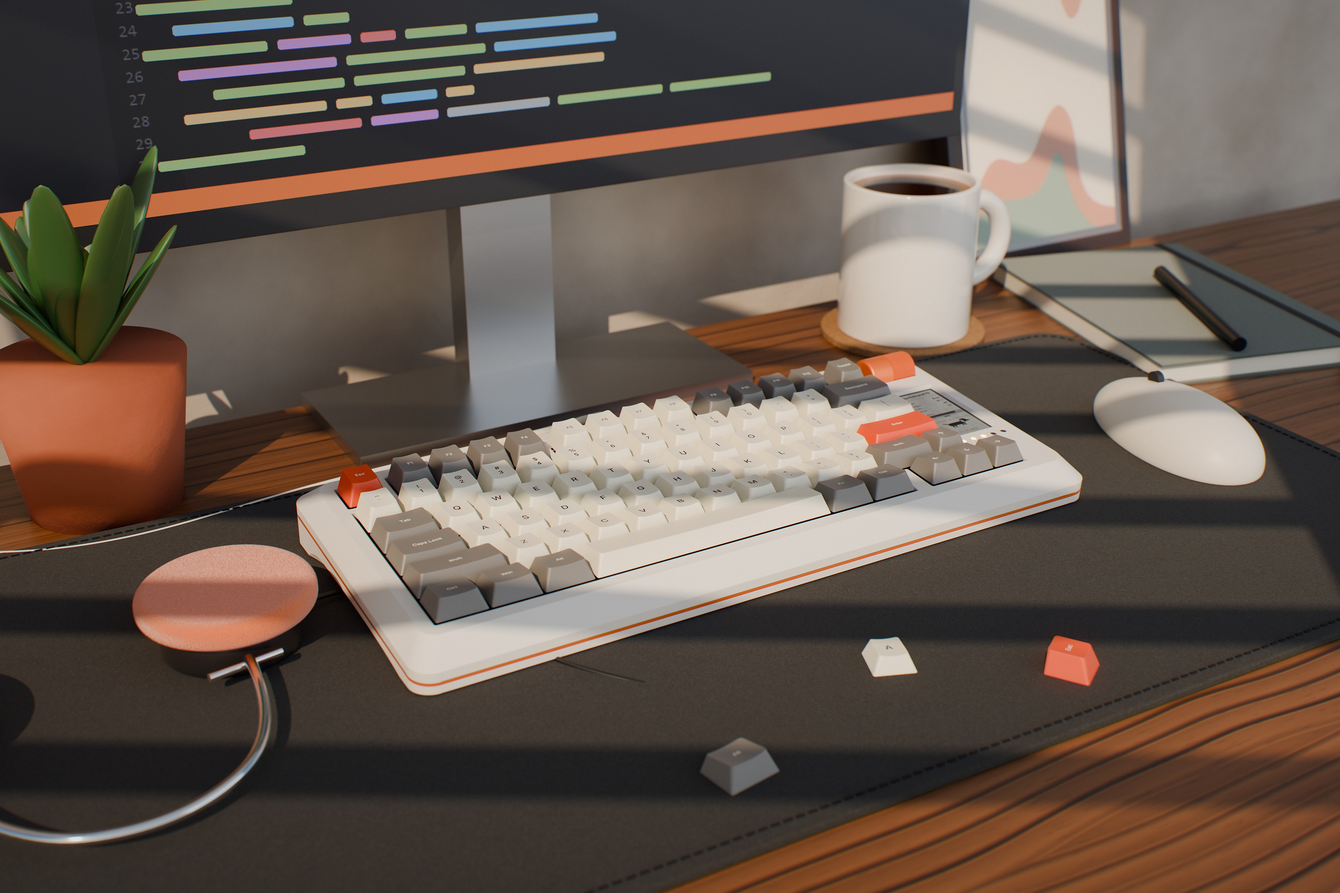
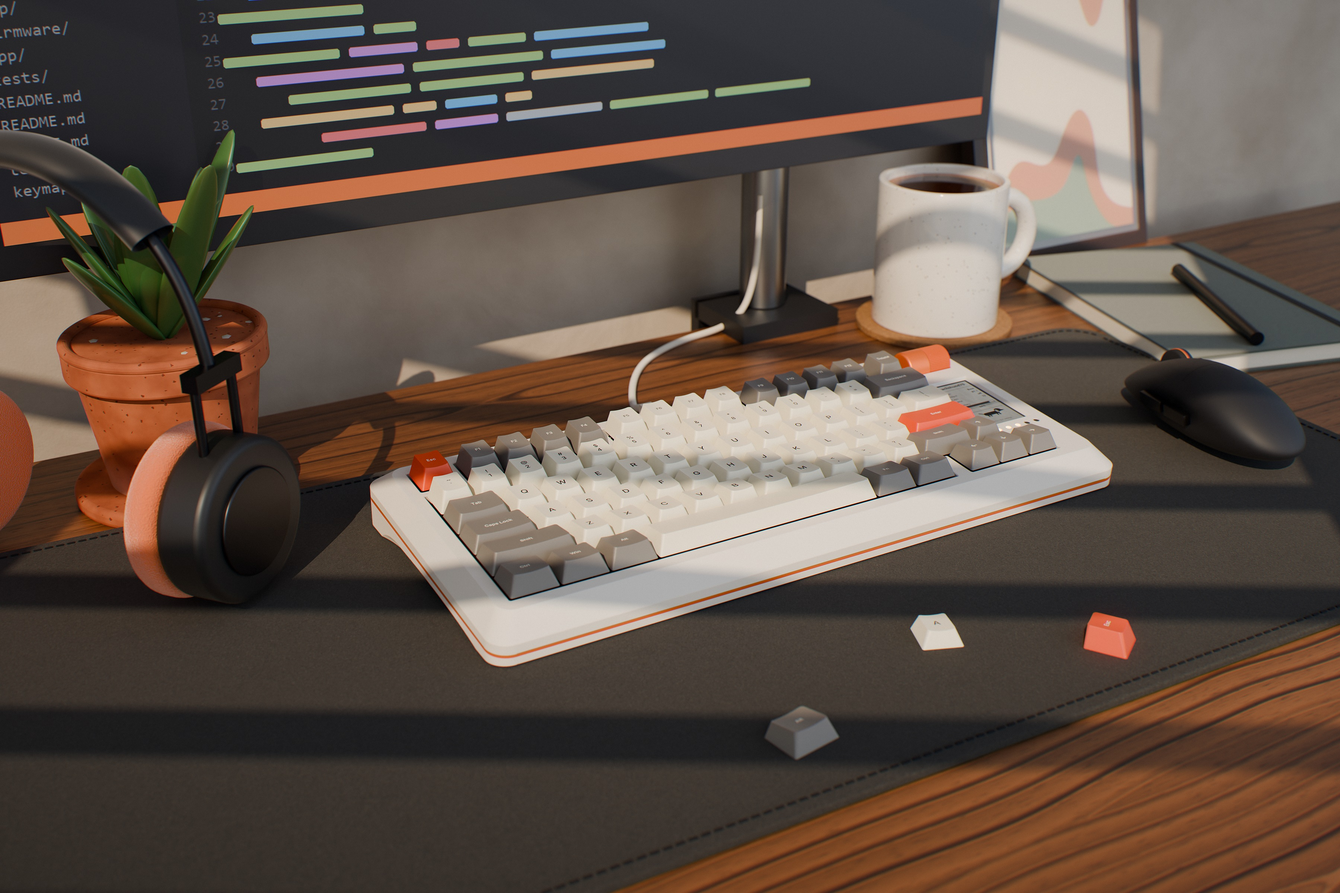
Case renders: monitor arm, gaming mouse, upright headphones, detailed pot
Monitor on a desk-clamped arm with the USB-C cable run up its pole; an
ergonomic gaming mouse; headphones sitting upright; a terracotta pot with
collar, saucer and pebbles; the composition shifted right with props
clear of each other; a texture pass on the walnut, mug and monitor.

diff --git a/hardware/case/blender/render.py b/hardware/case/blender/render.py
@@ -236,14 +236,14 @@ if SCENE == "dramatic":
     late = nt.nodes.new("ShaderNodeMath"); late.operation = "MULTIPLY"
     nt.links.new(W("MULTIPLY", l1.outputs[0], l2.outputs[0]), late.inputs[0]); nt.links.new(strength, late.inputs[1])
     ew = nt.nodes.new("ShaderNodeValToRGB"); e = ew.color_ramp.elements
-    e[0].position, e[0].color = 0.2, srgb("#4A2B18"); e[1].position, e[1].color = 0.85, srgb("#A46C43")
+    e[0].position, e[0].color = 0.2, srgb("#3F2414"); e[1].position, e[1].color = 0.85, srgb("#AA7146")
     tone2 = N(nt, "ShaderNodeTexNoise", Scale=4.0, Detail=4.0); nt.links.new(fm.outputs[0], tone2.inputs["Vector"])
     nt.links.new(W("ADD", W("MULTIPLY", tone2.outputs["Fac"], 0.8), W("MULTIPLY", ring, 0.25)), ew.inputs["Fac"])
     grain = nt.nodes.new("ShaderNodeMix"); grain.data_type = "RGBA"
     nt.links.new(late.outputs[0], grain.inputs[0]); nt.links.new(ew.outputs["Color"], grain.inputs[6])
     grain.inputs[7].default_value = srgb("#24130A")
     hair = W("FRACT", W("ADD", W("MULTIPLY", rr, 760.0), W("MULTIPLY", fine.outputs["Fac"], 1.2)))
-    hl = W("MULTIPLY", W("LESS_THAN", hair, 0.12), 0.22)  # fine secondary grain lines
+    hl = W("MULTIPLY", W("LESS_THAN", hair, 0.12), 0.32)  # fine secondary grain lines
     # dark figure streaks running with the grain, and broad tone variation
     sm = N(nt, "ShaderNodeMapping"); sm.inputs["Scale"].default_value = (0.03, 1.0, 1.0)
     nt.links.new(geo.outputs["Position"], sm.inputs["Vector"])
@@ -258,10 +258,10 @@ if SCENE == "dramatic":
     # open pores: short dark streaks running with the grain
     pm = N(nt, "ShaderNodeMapping"); pm.inputs["Scale"].default_value = (0.04, 1.0, 1.0)
     nt.links.new(geo.outputs["Position"], pm.inputs["Vector"])
-    pore = N(nt, "ShaderNodeTexNoise", Scale=1400.0, Detail=2.0); nt.links.new(pm.outputs[0], pore.inputs["Vector"])
-    pmask = W("GREATER_THAN", pore.outputs["Fac"], 0.66)
+    pore = N(nt, "ShaderNodeTexNoise", Scale=2200.0, Detail=2.0); nt.links.new(pm.outputs[0], pore.inputs["Vector"])
+    pmask = W("GREATER_THAN", pore.outputs["Fac"], 0.63)
     mx2 = nt.nodes.new("ShaderNodeMix"); mx2.data_type = "RGBA"
-    nt.links.new(W("MULTIPLY", pmask, 0.5), mx2.inputs[0]); nt.links.new(mx.outputs[2], mx2.inputs[6])
+    nt.links.new(W("MULTIPLY", pmask, 0.65), mx2.inputs[0]); nt.links.new(mx.outputs[2], mx2.inputs[6])
     mx2.inputs[7].default_value = srgb("#1E110A")
     nt.links.new(mx2.outputs[2], wb.inputs["Base Color"])
     smg = N(nt, "ShaderNodeTexNoise", Scale=7.0, Detail=6.0, Roughness=0.7); nt.links.new(geo.outputs["Position"], smg.inputs["Vector"])
@@ -421,15 +421,28 @@ if SCENE == "dramatic":
 
     # --- props ---
     mug_m = simple_mat("Glazed ceramic", "#ECE6DA", 0.1, **{"Coat Weight": 0.6})
+    # stoneware glaze: faint iron speckles and a little colour drift
+    _nt = mug_m.node_tree; _b = next(n for n in _nt.nodes if n.type == "BSDF_PRINCIPLED")
+    _g = _nt.nodes.new("ShaderNodeNewGeometry"); _v = N(_nt, "ShaderNodeTexVoronoi", Scale=1500.0)
+    _nt.links.new(_g.outputs["Position"], _v.inputs["Vector"])
+    _sp = _nt.nodes.new("ShaderNodeSeparateColor"); _nt.links.new(_v.outputs["Color"], _sp.inputs[0])
+    _k = _nt.nodes.new("ShaderNodeMath"); _k.operation = "GREATER_THAN"; _k.inputs[1].default_value = 0.994
+    _nt.links.new(_sp.outputs[0], _k.inputs[0])
+    _dr = N(_nt, "ShaderNodeTexNoise", Scale=25.0, Detail=3.0); _nt.links.new(_g.outputs["Position"], _dr.inputs["Vector"])
+    _cr = _nt.nodes.new("ShaderNodeValToRGB"); _cr.color_ramp.elements[0].color = srgb("#E4DDCF"); _cr.color_ramp.elements[1].color = srgb("#F1ECE2")
+    _nt.links.new(_dr.outputs["Fac"], _cr.inputs["Fac"])
+    _mx = _nt.nodes.new("ShaderNodeMix"); _mx.data_type = "RGBA"; _nt.links.new(_k.outputs[0], _mx.inputs[0])
+    _nt.links.new(_cr.outputs["Color"], _mx.inputs[6]); _mx.inputs[7].default_value = srgb("#5A4A3C")
+    _nt.links.new(_mx.outputs[2], _b.inputs["Base Color"])
     bm3 = bmesh.new()
     bmesh.ops.create_cone(bm3, cap_ends=True, segments=128, radius1=0.042, radius2=0.042, depth=0.095)
     top = max(bm3.faces, key=lambda f: f.calc_center_median().z); bmesh.ops.delete(bm3, geom=[top], context="FACES")
     me3 = bpy.data.meshes.new("Mug"); bm3.to_mesh(me3)
-    mug = link(bpy.data.objects.new("Mug", me3)); mug.location = (0.25, 0.165, 0.0475); me3.materials.append(mug_m)
+    mug = link(bpy.data.objects.new("Mug", me3)); mug.location = (0.255, 0.17, 0.0475); me3.materials.append(mug_m)
     so_ = mug.modifiers.new("wall", "SOLIDIFY"); so_.thickness = 0.0045; so_.offset = -1
     b2 = mug.modifiers.new("bv", "BEVEL"); b2.width = 0.0012; b2.segments = 3; b2.limit_method = "ANGLE"
     for p in me3.polygons: p.use_smooth = True
-    bpy.ops.mesh.primitive_torus_add(major_radius=0.026, minor_radius=0.0065, location=(0.25 + 0.050, 0.165, 0.05),
+    bpy.ops.mesh.primitive_torus_add(major_radius=0.026, minor_radius=0.0065, location=(0.255 + 0.050, 0.17, 0.05),
                                      rotation=(math.radians(90), 0, 0), major_segments=64, minor_segments=24)
     bpy.context.object.data.materials.append(mug_m)
     coffee, nt, cb = node_mat("Coffee with crema")
@@ -444,7 +457,7 @@ if SCENE == "dramatic":
     nt.links.new(ns.outputs["Fac"], mxc.inputs[0]); nt.links.new(rim.outputs[0], mxc.inputs[2])
     nt.links.new(mxc.outputs[0], cc.inputs["Fac"]); nt.links.new(cc.outputs["Color"], cb.inputs["Base Color"])
     cb.inputs["Roughness"].default_value = 0.08
-    bpy.ops.mesh.primitive_cylinder_add(radius=0.0374, depth=0.001, vertices=128, location=(0.25, 0.165, 0.0885))
+    bpy.ops.mesh.primitive_cylinder_add(radius=0.0374, depth=0.001, vertices=128, location=(0.255, 0.17, 0.0885))
     bpy.context.object.data.materials.append(coffee)
     cork, nt, kb = node_mat("Cork")
     geo = nt.nodes.new("ShaderNodeNewGeometry")
@@ -456,11 +469,11 @@ if SCENE == "dramatic":
     kb.inputs["Roughness"].default_value = 0.9
     bpk = N(nt, "ShaderNodeBump", Strength=0.6, Distance=0.0006)
     nt.links.new(ck.outputs["Distance"], bpk.inputs["Height"]); nt.links.new(bpk.outputs["Normal"], kb.inputs["Normal"])
-    bpy.ops.mesh.primitive_cylinder_add(radius=0.052, depth=0.005, vertices=128, location=(0.25, 0.165, 0.0025))
+    bpy.ops.mesh.primitive_cylinder_add(radius=0.052, depth=0.005, vertices=128, location=(0.255, 0.17, 0.0025))
     cst = bpy.context.object; cst.data.materials.append(cork)
     cbv = cst.modifiers.new("bv", "BEVEL"); cbv.width = 0.0008; cbv.segments = 3; cbv.limit_method = "ANGLE"
     for o in bpy.data.objects:
-        if o.type == "MESH" and o is not cst and abs(o.location.x - 0.25) < 1e-6 and abs(o.location.y - 0.165) < 1e-6:
+        if o.type == "MESH" and o is not cst and abs(o.location.x - 0.255) < 1e-6 and abs(o.location.y - 0.17) < 1e-6:
             o.location.z += 0.005
         if o.type == "MESH" and o.name.startswith("Torus"):
             o.location.z += 0.005
@@ -496,12 +509,65 @@ if SCENE == "dramatic":
                                         rotation=(0, math.radians(90), math.radians(62)))
     bpy.context.object.data.materials.append(pen_m)
     # Plant in a terracotta pot, and a framed print resting on the desk, leaning on the wall
-    terra = surface_mat("Terracotta", "#9C5235", "#B8694A", scale=120, bump=0.3, rough=0.85)
-    bpy.ops.mesh.primitive_cone_add(vertices=96, radius1=0.036, radius2=0.047, depth=0.075, location=(-0.24, 0.17, 0.0375))
-    pot = bpy.context.object; pot.data.materials.append(terra)
+    # terracotta pot: speckled fired clay, a pale mineral bloom and darker damp near the base, a collar and rim,
+    # a matching saucer, and soil dressed with pebbles
+    terra, nt, tb = node_mat("Terracotta")
+    tco_ = nt.nodes.new("ShaderNodeTexCoord"); tz = nt.nodes.new("ShaderNodeSeparateXYZ"); nt.links.new(tco_.outputs["Object"], tz.inputs[0])
+    clay = N(nt, "ShaderNodeTexNoise", Scale=60.0, Detail=8.0); nt.links.new(tco_.outputs["Object"], clay.inputs["Vector"])
+    crt = nt.nodes.new("ShaderNodeValToRGB"); e = crt.color_ramp.elements
+    e[0].position, e[0].color = 0.3, srgb("#8E4A2E"); e[1].position, e[1].color = 0.75, srgb("#BA6C48")
+    nt.links.new(clay.outputs["Fac"], crt.inputs["Fac"])
+    spk = N(nt, "ShaderNodeTexVoronoi", Scale=900.0); nt.links.new(tco_.outputs["Object"], spk.inputs["Vector"])
+    ssep = nt.nodes.new("ShaderNodeSeparateColor"); nt.links.new(spk.outputs["Color"], ssep.inputs[0])
+    dark = N(nt, "ShaderNodeMath"); dark.operation = "GREATER_THAN"; dark.inputs[1].default_value = 0.985
+    nt.links.new(ssep.outputs[0], dark.inputs[0])
+    m1 = nt.nodes.new("ShaderNodeMix"); m1.data_type = "RGBA"; nt.links.new(dark.outputs[0], m1.inputs[0])
+    nt.links.new(crt.outputs["Color"], m1.inputs[6]); m1.inputs[7].default_value = srgb("#6E3520")
+    bloom_n = N(nt, "ShaderNodeTexNoise", Scale=35.0, Detail=6.0); nt.links.new(tco_.outputs["Object"], bloom_n.inputs["Vector"])
+    low = nt.nodes.new("ShaderNodeMapRange"); low.inputs[1].default_value = -0.01; low.inputs[2].default_value = -0.036
+    nt.links.new(tz.outputs["Z"], low.inputs[0])
+    bl = N(nt, "ShaderNodeMath"); bl.operation = "MULTIPLY"; nt.links.new(low.outputs[0], bl.inputs[0])
+    nt.links.new(bloom_n.outputs["Fac"], bl.inputs[1])
+    m2 = nt.nodes.new("ShaderNodeMix"); m2.data_type = "RGBA"; nt.links.new(bl.outputs[0], m2.inputs[0])
+    nt.links.new(m1.outputs[2], m2.inputs[6]); m2.inputs[7].default_value = srgb("#C9B8A4")
+    nt.links.new(m2.outputs[2], tb.inputs["Base Color"]); tb.inputs["Roughness"].default_value = 0.88
+    bpt = N(nt, "ShaderNodeBump", Strength=0.35, Distance=0.0006)
+    nt.links.new(clay.outputs["Fac"], bpt.inputs["Height"]); nt.links.new(bpt.outputs["Normal"], tb.inputs["Normal"])
+    PX0, PY0, SZ = -0.24, 0.17, 0.008
+    bpy.ops.mesh.primitive_cylinder_add(radius=0.054, depth=0.009, vertices=96, location=(PX0, PY0, 0.0045))
+    sau = bpy.context.object; sau.name = "Saucer"; sau.data.materials.append(terra)
+    bsv = sau.modifiers.new("bv", "BEVEL"); bsv.width = 0.003; bsv.segments = 4; bsv.limit_method = "ANGLE"
+    for p in sau.data.polygons: p.use_smooth = True
+    sau.data.set_sharp_from_angle(angle=math.radians(40))
+    bpy.ops.mesh.primitive_cone_add(vertices=96, radius1=0.036, radius2=0.045, depth=0.062, location=(PX0, PY0, SZ + 0.031))
+    pot = bpy.context.object; pot.name = "Pot"; pot.data.materials.append(terra)
     for p in pot.data.polygons: p.use_smooth = True
-    bpy.ops.mesh.primitive_cylinder_add(radius=0.044, depth=0.002, vertices=64, location=(-0.24, 0.17, 0.07))
-    bpy.context.object.data.materials.append(simple_mat("Soil", "#2B1D14", 0.95))
+    pot.data.set_sharp_from_angle(angle=math.radians(40))
+    bpy.ops.mesh.primitive_cylinder_add(radius=0.0495, depth=0.015, vertices=96, location=(PX0, PY0, SZ + 0.062 + 0.0075 - 0.002))
+    col_ = bpy.context.object; col_.name = "Pot collar"; col_.data.materials.append(terra)
+    bcv = col_.modifiers.new("bv", "BEVEL"); bcv.width = 0.002; bcv.segments = 4; bcv.limit_method = "ANGLE"
+    for p in col_.data.polygons: p.use_smooth = True
+    col_.data.set_sharp_from_angle(angle=math.radians(40))
+    bpy.ops.mesh.primitive_torus_add(major_radius=0.047, minor_radius=0.003, location=(PX0, PY0, SZ + 0.0755),
+                                     major_segments=96, minor_segments=16)
+    bpy.context.object.data.materials.append(terra)
+    soil, nt, sb2 = node_mat("Soil")
+    sb2.inputs["Base Color"].default_value = srgb("#2B1D14"); sb2.inputs["Roughness"].default_value = 0.95
+    sn_ = N(nt, "ShaderNodeTexNoise", Scale=600.0, Detail=8.0); geo3 = nt.nodes.new("ShaderNodeNewGeometry")
+    nt.links.new(geo3.outputs["Position"], sn_.inputs["Vector"])
+    bps = N(nt, "ShaderNodeBump", Strength=0.8, Distance=0.001)
+    nt.links.new(sn_.outputs["Fac"], bps.inputs["Height"]); nt.links.new(bps.outputs["Normal"], sb2.inputs["Normal"])
+    bpy.ops.mesh.primitive_cylinder_add(radius=0.046, depth=0.002, vertices=64, location=(PX0, PY0, SZ + 0.071))
+    bpy.context.object.data.materials.append(soil)
+    peb = simple_mat("Pebbles", "#BDB6AA", 0.6)
+    import random as _r; _r.seed(11)
+    for k in range(22):
+        a = _r.random() * 2 * math.pi; rr_ = 0.008 + 0.034 * math.sqrt(_r.random())
+        bpy.ops.mesh.primitive_ico_sphere_add(subdivisions=2, radius=1.0,
+                                              location=(PX0 + rr_ * math.cos(a), PY0 + rr_ * math.sin(a), SZ + 0.0725))
+        pb_ = bpy.context.object; pb_.data.materials.append(peb)
+        sz_ = 0.0022 + 0.0022 * _r.random(); pb_.scale = (sz_ * 1.3, sz_, sz_ * 0.7); pb_.rotation_euler.z = _r.random() * 3
+        for p in pb_.data.polygons: p.use_smooth = True
     leaf = simple_mat("Leaf", "#3F6B3A", 0.35, **{"Subsurface Weight": 0.15, "Coat Weight": 0.3})
     import random; random.seed(7)
     for i in range(14):
@@ -510,7 +576,7 @@ if SCENE == "dramatic":
         lf = bpy.context.object; lf.data.materials.append(leaf)
         for p in lf.data.polygons: p.use_smooth = True
         lf.scale = (0.011, 0.0035, h / 2); lf.rotation_euler = Euler((tilt, 0, a))
-        lf.location = Vector((-0.24, 0.17, 0.07)) + Euler((tilt, 0, a)).to_matrix() @ Vector((0, 0, h / 2))
+        lf.location = Vector((-0.24, 0.17, 0.079)) + Euler((tilt, 0, a)).to_matrix() @ Vector((0, 0, h / 2))
     frame_m = simple_mat("Walnut frame", "#3A2618", 0.4)
     art = bpy.data.materials.new("Print"); art.use_nodes = True; nt = art.node_tree
     pbsdf = next(n for n in nt.nodes if n.type == "BSDF_PRINCIPLED"); pbsdf.inputs["Roughness"].default_value = 0.9
@@ -543,8 +609,8 @@ if SCENE == "dramatic":
     nt.links.new(bw.outputs["Fac"], bpb.inputs["Height"]); nt.links.new(bpb.outputs["Normal"], bb2.inputs["Normal"])
     z0 = root.location.z
     R_ = 0.0021
-    pts = [(0.0, 0.108, 0.00975 + z0), (0.0, 0.118, 0.0080 + z0), (-0.004, 0.124, MAT_T + R_ + 0.0008),
-           (-0.06, 0.131, R_ + 0.0004), (-0.16, 0.131, R_), (-0.235, 0.112, R_), (-0.31, 0.13, R_), (-0.38, 0.20, R_), (-0.52, 0.232, R_)]
+    pts = [(0.0, 0.108, 0.00975 + z0), (0.0, 0.118, 0.0080 + z0), (0.002, 0.125, MAT_T + R_ + 0.0008),
+           (0.012, 0.150, R_ + 0.0002), (0.045, 0.205, R_), (0.10, 0.228, R_), (0.135, 0.226, R_), (0.150, 0.226, 0.03), (0.150, 0.226, 0.09)]
     cu = bpy.data.curves.new("Cable", "CURVE"); cu.dimensions = "3D"; cu.bevel_depth = R_; cu.bevel_resolution = 6
     cu.resolution_u = 24
     sp = cu.splines.new("NURBS"); sp.points.add(len(pts) - 1); sp.use_endpoint_u = True; sp.order_u = 4
@@ -561,6 +627,11 @@ if SCENE == "dramatic":
         return o
     # monitor: satin dark-grey shell, slim bezel, matte panel showing an editor
     shell = simple_mat("Monitor shell", "#2B2B2D", 0.45, 0.0, **{"Coat Weight": 0.1})
+    _nt = shell.node_tree; _b = next(n for n in _nt.nodes if n.type == "BSDF_PRINCIPLED")
+    _g = _nt.nodes.new("ShaderNodeNewGeometry"); _n = N(_nt, "ShaderNodeTexNoise", Scale=4000.0, Detail=3.0)
+    _nt.links.new(_g.outputs["Position"], _n.inputs["Vector"])
+    _bp = N(_nt, "ShaderNodeBump", Strength=0.06, Distance=0.0002)
+    _nt.links.new(_n.outputs["Fac"], _bp.inputs["Height"]); _nt.links.new(_bp.outputs["Normal"], _b.inputs["Normal"])
     alu = simple_mat("Stand aluminium", "#B8B8B6", 0.35, 1.0)
     scr, nt, sb = node_mat("Monitor screen")
     tx = nt.nodes.new("ShaderNodeTexImage"); tx.image = bpy.data.images.load(os.path.join(os.path.dirname(os.path.abspath(__file__)), "monitor.png"))
@@ -568,28 +639,115 @@ if SCENE == "dramatic":
     sb.inputs["Base Color"].default_value = srgb("#0C0C0E"); sb.inputs["Roughness"].default_value = 0.35
     nt.links.new(tx.outputs["Color"], sb.inputs["Emission Color"]); sb.inputs["Emission Strength"].default_value = 0.9
     mon = link(bpy.data.objects.new("Monitor", None)); mon.location = (0.0, 0.205, 0.0)
-    rbox("Mon base", (0.24, 0.10, 0.008), (0.0, -0.015, 0.004), alu, bevel=0.003, parent=mon)
-    rbox("Mon neck", (0.055, 0.022, 0.24), (0.0, 0.02, 0.12), alu, bevel=0.004, parent=mon)
+    # monitor arm: desk clamp on the back edge, pole, gas-spring lower arm, elbow, upper arm, tilt head, VESA plate
+    coat = simple_mat("Arm powder coat", "#1E1E1F", 0.55, 0.0, **{"Coat Weight": 0.15, "Coat Roughness": 0.4})
+    satin = simple_mat("Arm satin alu", "#9A9A98", 0.3, 1.0)
+    def beam(name, p0, p1, w, h, m, bevel=0.004):
+        p0, p1 = Vector(p0), Vector(p1); L = (p1 - p0).length
+        o = box(name, (w, L, h), (p0 + p1) / 2, m, bevel=bevel)
+        o.rotation_euler = (p1 - p0).to_track_quat("Y", "Z").to_euler(); return o
+    def cyl(name, loc, r, d, m, rot=(0, 0, 0), bevel=0.0015):
+        bpy.ops.mesh.primitive_cylinder_add(radius=r, depth=d, vertices=64, location=loc, rotation=rot)
+        o = bpy.context.object; o.name = name; o.data.materials.append(m)
+        for p in o.data.polygons: p.use_smooth = True
+        b_ = o.modifiers.new("bv", "BEVEL"); b_.width = bevel; b_.segments = 3; b_.limit_method = "ANGLE"
+        o.data.set_sharp_from_angle(angle=math.radians(35)); return o
+    PX, PY = 0.16, 0.236
+    box("Clamp top", (0.075, 0.062, 0.012), (PX, PY - 0.005, 0.006), coat, bevel=0.003)
+    box("Clamp spine", (0.075, 0.010, 0.072), (PX, 0.262, -0.024), coat, bevel=0.003)
+    box("Clamp jaw", (0.075, 0.048, 0.010), (PX, 0.240, -0.052), coat, bevel=0.003)
+    cyl("Clamp screw", (PX, 0.236, -0.066), 0.006, 0.026, satin)
+    cyl("Clamp knob", (PX, 0.236, -0.082), 0.017, 0.010, coat, bevel=0.003)
+    cyl("Pole", (PX, PY, 0.012 + 0.16), 0.0155, 0.32, satin, bevel=0.001)
+    cyl("Pole cap", (PX, PY, 0.335), 0.0165, 0.008, coat)
+    cyl("Collar", (PX, PY, 0.150), 0.021, 0.034, coat, bevel=0.003)
+    cyl("Collar bolt", (PX + 0.021, PY, 0.150), 0.004, 0.006, satin, rot=(0, math.radians(90), 0))
+    beam("Lower arm", (PX - 0.010, PY + 0.004, 0.160), (0.065, 0.250, 0.232), 0.034, 0.026, coat, bevel=0.006)
+    cyl("Gas spring", ((PX + 0.065) / 2 - 0.005, 0.247, 0.181), 0.0055, 0.10, satin,
+        rot=(0, math.atan2(0.065 - PX, 0.232 - 0.160) + math.radians(8), 0))
+    cyl("Elbow", (0.065, 0.250, 0.232), 0.020, 0.040, coat, bevel=0.003)
+    cyl("Elbow cap", (0.065, 0.250, 0.2535), 0.0165, 0.004, satin)
+    beam("Upper arm", (0.065, 0.250, 0.240), (0.006, 0.238, 0.285), 0.030, 0.024, coat, bevel=0.005)
+    box("Tilt head", (0.050, 0.030, 0.050), (0.0, 0.232, 0.298), coat, bevel=0.006)
+    box("VESA plate", (0.110, 0.006, 0.110), (0.0, 0.2195, 0.300), satin, bevel=0.002)
+    for vx in (-0.05, 0.05):
+        for vz in (0.25, 0.35):
+            cyl("VESA screw", (vx, 0.2165, vz), 0.0035, 0.003, satin, rot=(math.radians(90), 0, 0), bevel=0.0006)
     rbox("Mon panel", (0.62, 0.022, 0.37), (0.0, 0.0, 0.30), shell, bevel=0.004, parent=mon)
     # screen as a plane just in front of the panel face; texture mapped by generated coords (x across, z up)
     bpy.ops.mesh.primitive_plane_add(size=1.0)
     sp_ = bpy.context.object; sp_.name = "Mon screen"; sp_.data.materials.append(scr)
     sp_.scale = (0.604, 0.35, 1); sp_.rotation_euler = (math.radians(90), 0, 0)
     sp_.location = (0.0, -0.0112, 0.307); sp_.parent = mon
-    # mouse: a soft, low, rounded shell in the case colour, with a split for the buttons and a wheel
-    mouse_m = simple_mat("Mouse shell", "#E4DDCD", 0.42, 0.0, **{"Subsurface Weight": 0.08, "Subsurface Scale": 0.0015})
-    bpy.ops.mesh.primitive_uv_sphere_add(segments=64, ring_count=32, radius=1.0)
-    ms = bpy.context.object; ms.name = "Mouse"; ms.data.materials.append(mouse_m)
-    for p in ms.data.polygons: p.use_smooth = True
-    for v in ms.data.vertices:
-        if v.co.z < -0.15: v.co.z = -0.15                    # flat underside
-        v.co.y *= 1.0 + 0.12 * v.co.y                        # wider at the back, like a hand
-    ms.scale = (0.031, 0.058, 0.026)
-    ms.location = (0.262, -0.055, MAT_T + 0.026 * 0.15); ms.rotation_euler.z = math.radians(-9)
+    # ergonomic right-handed gaming mouse: tall on the left, sloping to the right, a thumb groove with two side
+    # buttons, split main buttons, a rubber wheel with an orange ring, matte black soft-touch shell
+    shellm, nt, mb = node_mat("Mouse soft-touch")
+    mb.inputs["Base Color"].default_value = srgb("#18181A"); mb.inputs["Roughness"].default_value = 0.62
+    mb.inputs["Coat Weight"].default_value = 0.08; mb.inputs["Coat Roughness"].default_value = 0.5
+    tcm = nt.nodes.new("ShaderNodeTexCoord"); sxyz = nt.nodes.new("ShaderNodeSeparateXYZ")
+    nt.links.new(tcm.outputs["Object"], sxyz.inputs[0])
+    def MM(op, a, b=None):
+        n = nt.nodes.new("ShaderNodeMath"); n.operation = op
+        for i, v in enumerate((a, b)):
+            if v is None: continue
+            if isinstance(v, (int, float)): n.inputs[i].default_value = v
+            else: nt.links.new(v, n.inputs[i])
+        return n.outputs[0]
+    X_, Y_, Z_ = sxyz.outputs["X"], sxyz.outputs["Y"], sxyz.outputs["Z"]
+    # button split (along the length, front half) and the buttons' rear seam
+    split = MM("MULTIPLY", MM("LESS_THAN", MM("ABSOLUTE", MM("SUBTRACT", X_, 0.0015)), 0.00045), MM("GREATER_THAN", Y_, -0.004))
+    seam = MM("MULTIPLY", MM("MULTIPLY", MM("LESS_THAN", MM("ABSOLUTE", MM("ADD", Y_, 0.004)), 0.00045),
+                                  MM("LESS_THAN", MM("ABSOLUTE", X_), 0.024)), MM("GREATER_THAN", Z_, 0.024))
+    gap = MM("MAXIMUM", split, seam)
+    mixg = nt.nodes.new("ShaderNodeMix"); mixg.data_type = "RGBA"
+    nt.links.new(gap, mixg.inputs[0]); mixg.inputs[6].default_value = srgb("#18181A"); mixg.inputs[7].default_value = srgb("#030303")
+    nt.links.new(mixg.outputs[2], mb.inputs["Base Color"])
+    grain = N(nt, "ShaderNodeTexNoise", Scale=5000.0, Detail=2.0); nt.links.new(tcm.outputs["Object"], grain.inputs["Vector"])
+    bpm = N(nt, "ShaderNodeBump", Strength=0.08, Distance=0.0002)
+    nt.links.new(MM("SUBTRACT", MM("MULTIPLY", grain.outputs["Fac"], 0.3), MM("MULTIPLY", gap, 1.0)), bpm.inputs["Height"])
+    nt.links.new(bpm.outputs["Normal"], mb.inputs["Normal"])
+
+    bm4 = bmesh.new(); bmesh.ops.create_uvsphere(bm4, u_segments=96, v_segments=48, radius=1.0)
+    for v in bm4.verts:
+        xn, yn, zn = v.co.x, v.co.y, v.co.z
+        h = 0.044 * (1.0 - 0.42 * (yn + 0.18) ** 2)            # hump just behind the middle
+        h *= 1.0 + 0.14 * (-xn)                                # higher on the left (palm rests tilted)
+        w = 0.028 + 0.007 * max(0.0, -yn) - 0.002 * max(0.0, yn)                       # wider at the back
+        if xn > 0.4 and zn < 0.1: w *= 1.0 + 0.10 * (xn - 0.4)   # flare at the bottom right for the ring finger
+        x = xn * w; y = yn * 0.064
+        z = (zn + 1.0) * 0.5 * h                               # 0 .. h
+        if zn < -0.55: z = max(z, 0.0)
+        # thumb groove on the left side, half-way up
+        if xn < -0.55:
+            g = math.exp(-((z / h - 0.42) / 0.16) ** 2) * math.exp(-((yn + 0.05) / 0.45) ** 2)
+            x += 0.0055 * g
+        v.co = Vector((x, y, max(z, 0.0)))
+    me4 = bpy.data.meshes.new("Gaming mouse"); bm4.to_mesh(me4); bm4.free()
+    ms = link(bpy.data.objects.new("Gaming mouse", me4)); me4.materials.append(shellm)
+    for p in me4.polygons: p.use_smooth = True
     sub_ = ms.modifiers.new("sub", "SUBSURF"); sub_.levels = sub_.render_levels = 1
-    bpy.ops.mesh.primitive_cylinder_add(radius=0.0045, depth=0.0032, vertices=48, rotation=(0, math.radians(90), 0))
-    wh = bpy.context.object; wh.name = "Mouse wheel"; wh.data.materials.append(simple_mat("Wheel", "#2A2826", 0.6))
-    wh.parent = ms; wh.location = (0.0, 0.45, 0.96); wh.scale = (1 / 0.031, 1 / 0.058, 1 / 0.026)
+    ms.location = (0.262, -0.055, MAT_T); ms.rotation_euler.z = math.radians(-9)
+    rubber = simple_mat("Wheel rubber", "#1E1E1E", 0.75)
+    def mpart(o):
+        o.parent = ms
+        for p in o.data.polygons: p.use_smooth = True
+        return o
+    bpy.ops.mesh.primitive_cylinder_add(radius=0.0115, depth=0.0075, vertices=64, location=(0.0015, 0.030, 0.028),
+                                        rotation=(0, math.radians(90), 0))
+    wh = mpart(bpy.context.object); wh.name = "Mouse wheel"; wh.data.materials.append(rubber)
+    b_ = wh.modifiers.new("bv", "BEVEL"); b_.width = 0.0012; b_.segments = 3; b_.limit_method = "ANGLE"
+    bpy.ops.mesh.primitive_cylinder_add(radius=0.0118, depth=0.0012, vertices=64, location=(0.0015, 0.030, 0.028),
+                                        rotation=(0, math.radians(90), 0))
+    ring = mpart(bpy.context.object); ring.data.materials.append(simple_mat("Accent orange", "#E8763E", 0.4, 0.5))
+    side_m = simple_mat("Side buttons", "#0E0E0F", 0.3)
+    for yb in (0.014, -0.006):
+        bpy.ops.mesh.primitive_cube_add(size=1.0, location=(-0.0262, yb, 0.019))
+        sbt = mpart(bpy.context.object); sbt.scale = (0.004, 0.017, 0.0065); sbt.data.materials.append(side_m)
+        sbt.rotation_euler.y = math.radians(-12)
+        bb_ = sbt.modifiers.new("bv", "BEVEL"); bb_.width = 0.0015; bb_.segments = 4
+    bpy.ops.mesh.primitive_cube_add(size=1.0, location=(0.0015, 0.012, 0.0378))
+    dpi = mpart(bpy.context.object); dpi.scale = (0.006, 0.009, 0.003); dpi.data.materials.append(side_m)
+    bd_ = dpi.modifiers.new("bv", "BEVEL"); bd_.width = 0.0012; bd_.segments = 4
     # retro-style on-ear headphones, lying flat: chrome band, small black cups, orange foam pads facing up
     chrome = simple_mat("Chrome band", "#D7D7D5", 0.12, 1.0)
     cupm = simple_mat("Cup plastic", "#1D1C1B", 0.45, 0.0)
@@ -601,33 +759,37 @@ if SCENE == "dramatic":
     cells = N(nt, "ShaderNodeTexVoronoi", Scale=1800.0); nt.links.new(geo2.outputs["Position"], cells.inputs["Vector"])
     bpf = N(nt, "ShaderNodeBump", Strength=0.8, Distance=0.0008)
     nt.links.new(cells.outputs["Distance"], bpf.inputs["Height"]); nt.links.new(bpf.outputs["Normal"], fo.inputs["Normal"])
-    hp = link(bpy.data.objects.new("Headphones", None)); hp.location = (-0.29, -0.01, MAT_T); hp.rotation_euler.z = math.radians(100)
+    # retro-style headphones sitting upright on their cups: padded band, small gunmetal yokes, orange foam pads
+    gun = simple_mat("Gunmetal", "#3C3C3E", 0.35, 1.0)
+    leather = simple_mat("Band leather", "#1B1A19", 0.55, 0.0, **{"Sheen Weight": 0.3})
+    hp = link(bpy.data.objects.new("Headphones", None)); hp.location = (-0.30, 0.10, MAT_T); hp.rotation_euler.z = math.radians(40)
+    def hcyl(loc, r, d, m, bev):
+        bpy.ops.mesh.primitive_cylinder_add(radius=r, depth=d, vertices=64, location=loc, rotation=(math.radians(90), 0, 0))
+        o = bpy.context.object; o.data.materials.append(m); o.parent = hp
+        for p in o.data.polygons: p.use_smooth = True
+        b_ = o.modifiers.new("bv", "BEVEL"); b_.width = bev; b_.segments = 5; b_.limit_method = "ANGLE"
+        o.data.set_sharp_from_angle(angle=math.radians(35)); return o
+    CZ, CY = 0.040, 0.084
     for side in (-1, 1):
-        cy = side * 0.068
-        bpy.ops.mesh.primitive_cylinder_add(radius=0.029, depth=0.016, vertices=64, location=(0, cy, 0.008))
-        c = bpy.context.object; c.data.materials.append(cupm); c.parent = hp
-        b_ = c.modifiers.new("bv", "BEVEL"); b_.width = 0.003; b_.segments = 4; b_.limit_method = "ANGLE"
-        for p in c.data.polygons: p.use_smooth = True
-        bpy.ops.mesh.primitive_cylinder_add(radius=0.036, depth=0.012, vertices=64, location=(0, cy, 0.022))
-        f_ = bpy.context.object; f_.data.materials.append(foam); f_.parent = hp
-        b_ = f_.modifiers.new("bv", "BEVEL"); b_.width = 0.005; b_.segments = 6; b_.limit_method = "ANGLE"
-        for p in f_.data.polygons: p.use_smooth = True
-        # yoke: a short chrome bar from the cup to the band
-        bpy.ops.mesh.primitive_cylinder_add(radius=0.0018, depth=0.03, vertices=24, location=(-0.034, cy * 0.86, 0.01),
-                                            rotation=(math.radians(90), 0, 0))
-        y_ = bpy.context.object; y_.data.materials.append(chrome); y_.parent = hp
-    band = bpy.data.curves.new("Band", "CURVE"); band.dimensions = "3D"; band.bevel_depth = 0.0022; band.bevel_resolution = 4
-    spb = band.splines.new("NURBS"); bp_pts = [(-0.034, -0.06, 0.012), (-0.085, -0.05, 0.010), (-0.11, 0.0, 0.009), (-0.085, 0.05, 0.010), (-0.034, 0.06, 0.012)]
-    spb.points.add(len(bp_pts) - 1); spb.use_endpoint_u = True; spb.order_u = 3
-    for p, (x, y, z) in zip(spb.points, bp_pts): p.co = (x, y, z, 1)
-    bo = link(bpy.data.objects.new("Band", band)); band.materials.append(chrome); bo.parent = hp
-    # thin black headphone cable trailing off the mat
-    hc = bpy.data.curves.new("HP cable", "CURVE"); hc.dimensions = "3D"; hc.bevel_depth = 0.0011; hc.bevel_resolution = 3
-    sph = hc.splines.new("NURBS"); hc_pts = [(0.0, -0.095, 0.006), (0.01, -0.13, 0.002), (-0.03, -0.17, 0.0012), (-0.10, -0.15, 0.0012), (-0.16, -0.20, -MAT_T + 0.0012)]
-    sph.points.add(len(hc_pts) - 1); sph.use_endpoint_u = True; sph.order_u = 3
-    for p, (x, y, z) in zip(sph.points, hc_pts): p.co = (x, y, z, 1)
-    ho = link(bpy.data.objects.new("HP cable", hc)); hc.materials.append(cupm); ho.parent = hp
-    cam = camera("Cam", (-0.33, -0.54, 0.33), (0.0, 0.03, 0.03), lens=40, fstop=8.0)
+        hcyl((0, side * CY, CZ), 0.037, 0.024, cupm, 0.004)                       # cup shell
+        hcyl((0, side * (CY + 0.0125), CZ), 0.024, 0.003, gun, 0.0008)          # back badge ring
+        hcyl((0, side * (CY - 0.020), CZ), 0.039, 0.016, foam, 0.006)          # foam pad, facing in
+        # yoke: two short bars from the cup's top to the band end
+        for dx in (-0.012, 0.012):
+            bpy.ops.mesh.primitive_cylinder_add(radius=0.0022, depth=0.034, vertices=24, location=(dx, side * CY, CZ + 0.048))
+            y_ = bpy.context.object; y_.data.materials.append(gun); y_.parent = hp
+        bpy.ops.mesh.primitive_cube_add(size=1.0, location=(0, side * CY, CZ + 0.067))
+        k_ = bpy.context.object; k_.scale = (0.03, 0.008, 0.008); k_.data.materials.append(gun); k_.parent = hp
+    def arc(name, a0, a1, r, zc, depth, m, n=9):
+        cu = bpy.data.curves.new(name, "CURVE"); cu.dimensions = "3D"; cu.bevel_depth = depth; cu.bevel_resolution = 5
+        sp = cu.splines.new("NURBS"); sp.points.add(n - 1); sp.use_endpoint_u = True; sp.order_u = 4
+        for k, p in enumerate(sp.points):
+            a = math.radians(a0 + (a1 - a0) * k / (n - 1)); p.co = (0, r * math.cos(a), zc + r * math.sin(a), 1)
+        o = link(bpy.data.objects.new(name, cu)); cu.materials.append(m); o.parent = hp; return o
+    arc("Band", -6, 186, CY, CZ + 0.072, 0.0032, gun)
+    cush = arc("Band cushion", 38, 142, CY - 0.002, CZ + 0.072, 0.0075, leather)
+    cush.scale = (1.6, 1.0, 1.0)
+    cam = camera("Cam", (-0.36, -0.545, 0.335), (-0.030, 0.03, 0.03), lens=39, fstop=8.0)
     cam.data.dof.focus_distance = (Vector((-0.01, -0.03, 0.02)) - cam.location).length
     if os.environ.get("WOODTEST"):
         cam = camera("Wood", (0.62, -0.95, 0.30), (0.58, -0.50, 0.0), lens=45)
